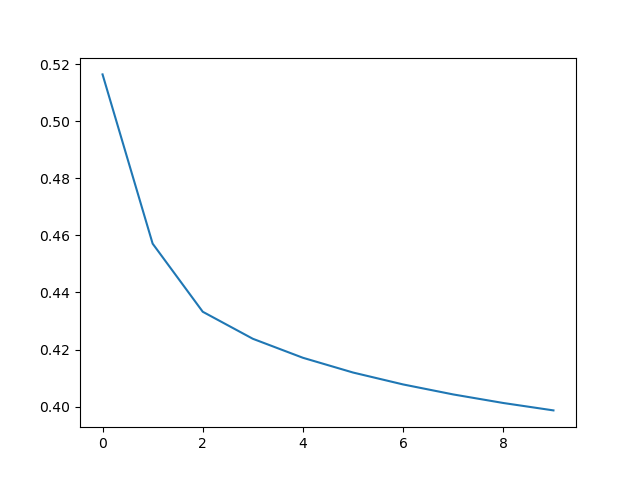
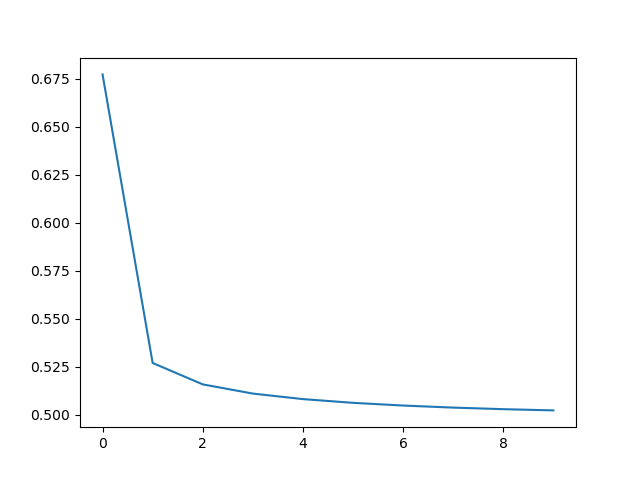
transform is now searching the old solution instead of rerunning tucker

diff --git a/ICE/ChannelReducer.py b/ICE/ChannelReducer.py
@@ -201,6 +201,7 @@ class ChannelTensorDecompositionReducer(object):
         self.trained_shape = None
         self.orig_shape = None
         self._iter_max = iter_max
+        self.orig_dataset = None
 
     def _flat_transpose_pad(self, acts, pad=False):
         """ flat the input matrix A to (c x (h x w) x n),
@@ -236,19 +237,11 @@ class ChannelTensorDecompositionReducer(object):
             acts = acts.reshape(self.orig_shape)
         return acts
 
-    # def fit(self, acts):
-    #     # TODO to update
-    #     if hasattr(self._reducer, "partial_fit"):
-    #         res = self._apply_flat(self._reducer.partial_fit, acts)
-    #     else:
-    #         res = self._apply_flat(self._reducer.fit, acts)
-    #     self._is_fit = True
-    #     return res
-
     def fit_transform(self, acts):
         """Fit a tucker model and return the error."""
         # matrix now has the shape n x h x w x c
         self.orig_shape = acts.shape
+        self.orig_dataset = acts
         # transpose and flat
         acts_flat = self._flat_transpose_pad(acts)
         # now run tucker decomposition
@@ -256,6 +249,7 @@ class ChannelTensorDecompositionReducer(object):
         tensors, error = non_negative_tucker_hals(
             acts_flat, rank=self.rank, n_iter_max=self._iter_max, return_errors=True
         )
+        print("Minimum Tucker error", error[-1])
         normalized_tensors = normalize_tensors(tensors)
         self.precomputed_tensors = normalized_tensors
         self._is_fit = True
@@ -267,42 +261,67 @@ class ChannelTensorDecompositionReducer(object):
         plt.savefig("test_plot.png")
 
     def transform(self, acts):
-        """Return the data tranformed by and already fitted Tucker model."""
-        # acts is not the pianoroll for only some pieces
-        # first flat transpose and pad
-        padded_acts = self._flat_transpose_pad(acts, pad=True)
-        # now tucker decompose with fixed modes
-        (core, factors), errors = non_negative_tucker_hals(
-            padded_acts,
-            rank=self.rank,
-            return_errors=True,
-            n_iter_max=self._iter_max,
-            fixed_modes=[0, 1],
-            init=self.precomputed_tensors.tucker_copy(),
+        indices = []
+        for piece in acts:
+            indices.append((self.orig_dataset == piece).all(axis=-1).nonzero()[0][0])
+        output = tensorly.tenalg.multi_mode_dot(
+            self.precomputed_tensors.core, self.precomputed_tensors.factors, skip=0
         )
-        # 3 and 2 mode multiplication, skip channel-mode mult
-        output = tensorly.tenalg.multi_mode_dot(core, factors, skip=0)
         # reshape and translate the output so we return n x h x w x c'
         output = self._inverse_flat_transpose(output)
         # delete zero-padded pieces
-        output = output[: acts.shape[0], :, :, :]
-        return output
+        output = output[indices, :, :, :]
+        return output, indices
 
-    def inverse_transform(self, acts):
-        # flat transpose
-        padded_acts = self._flat_transpose_pad(acts, pad=True)
+        # """Return the data tranformed by and already fitted Tucker model."""
+        # # acts is not the pianoroll for only some pieces
+        # # first flat transpose and pad
+        # padded_acts = self._flat_transpose_pad(acts, pad=True)
+        # # now tucker decompose with fixed modes (except piece mode)
+        # fixed_modes = [0, 1] if self.dimension == 3 else [0, 1, 2]
+        # (core, factors), errors = non_negative_tucker_hals(
+        #     padded_acts,
+        #     rank=self.rank,
+        #     return_errors=True,
+        #     n_iter_max=self._iter_max,
+        #     fixed_modes=fixed_modes,
+        #     init=self.precomputed_tensors.tucker_copy(),
+        # )
+        # print("Minimum fixed Mode Tucker error", errors[-1])
+        # # 3 and 2 mode multiplication, skip channel-mode mult
+        # output = tensorly.tenalg.multi_mode_dot(core, factors, skip=0)
+        # # reshape and translate the output so we return n x h x w x c'
+        # output = self._inverse_flat_transpose(output)
+        # # delete zero-padded pieces
+        # output = output[: acts.shape[0], :, :, :]
+        # return output
+
+    def inverse_transform(self, acts, indices):
         if self._is_fit:
-            # only step missing to the reconstructed matrix is the 1-mode multiplication
-            # 3 and 2 mode mult has been performed in transform()
-            mode1_matrix = self.precomputed_tensors.factors[0]
-            reconstructed = tensorly.tenalg.mode_dot(padded_acts, mode1_matrix, 0)
+            reconstructed = tensorly.tucker_to_tensor(self.precomputed_tensors)
             # transpose and reshape it in original shape n x h x w x c
             reconstructed = self._inverse_flat_transpose(
                 reconstructed, reduced_channel=False
             )
-            return reconstructed[: acts.shape[0], :, :, :]
+            return reconstructed[indices, :, :, :]
         else:
             raise Exception("The Reducer must be fit first")
+
+    # def inverse_transform(self, acts):
+    #     # flat transpose
+    #     padded_acts = self._flat_transpose_pad(acts, pad=True)
+    #     if self._is_fit:
+    #         # only step missing to the reconstructed matrix is the 1-mode multiplication
+    #         # 3 and 2 mode mult has been performed in transform()
+    #         mode1_matrix = self.precomputed_tensors.factors[0]
+    #         reconstructed = tensorly.tenalg.mode_dot(padded_acts, mode1_matrix, 0)
+    #         # transpose and reshape it in original shape n x h x w x c
+    #         reconstructed = self._inverse_flat_transpose(
+    #             reconstructed, reduced_channel=False
+    #         )
+    #         return reconstructed[: acts.shape[0], :, :, :]
+    #     else:
+    #         raise Exception("The Reducer must be fit first")
 
 
 def normalize_tensors(tucker_tensor):

diff --git a/ICE/Explainer.py b/ICE/Explainer.py
@@ -169,20 +169,13 @@ class Explainer:
         for X_feature in X_features:
             # transform the pieces for each composer, according to the factorization produced before
             # the result is in shape: n x h x w x c'
-            t_feature = self.reducer.transform(X_feature)
-            # take the mean for h and w dimensions to have a vector n x c'. No filter is applied here ( because threshold is None)
-            # is the result pred_feature, only used for computing feature distribution?
-            # pred_feature = self._feature_filter(t_feature)
-            # self.feature_distribution["classes"].append(
-            #     [
-            #         pred_feature.mean(axis=0),
-            #         pred_feature.std(axis=0),
-            #         pred_feature.min(axis=0),
-            #         pred_feature.max(axis=0),
-            #     ]
-            # )
-            # inverse NMF transform the vector n x h x w x c' to the original A matrix n x h x w x c
-            reX.append(self.reducer.inverse_transform(t_feature))
+            if self.reducer_type == "NMF":
+                t_feature = self.reducer.transform(X_feature)
+                # inverse NMF transform the vector n x h x w x c' to the original A matrix n x h x w x c
+                reX.append(self.reducer.inverse_transform(t_feature))
+            else:
+                t_feature, indices = self.reducer.transform(X_feature)
+                reX.append(self.reducer.inverse_transform(t_feature, indices))
 
         err = []
         for i in range(len(self.class_names)):
@@ -349,9 +342,14 @@ class Explainer:
                     0
                 ]  # this does nothing. Just the dataloader is returning a list with 1 element
                 # produce the W from the (W,H) NMF factorization already trained
-                featureMaps = self.reducer.transform(
-                    model.get_feature(X, self.layer_name)
-                )
+                if self.reducer_type == "NMF":
+                    featureMaps = self.reducer.transform(
+                        model.get_feature(X, self.layer_name)
+                    )
+                else:
+                    featureMaps, _ = self.reducer.transform(
+                        model.get_feature(X, self.layer_name)
+                    )
                 # average W to pass from from (n x h x w x c') to (n x c')
                 X_feature = self._feature_filter(featureMaps)
 
@@ -534,12 +532,14 @@ class Explainer:
                 midifile_filt_path = Path(feature_path, f"feature{idx}-{i}_filt.mid")
                 try:
                     self.utils.pianoroll2midi(
-                        np.transpose(x_filt[i], (0, 2, 1)), midifile_filt_path
+                        np.transpose(x_filt[i], (0, 2, 1)),
+                        midifile_filt_path,
+                        channels=1,
                     )
                     if unfiltered_midi:
                         midifile_path = Path(feature_path, f"feature{idx}-{i}.mid")
                         self.utils.pianoroll2midi(
-                            np.transpose(x[i], (0, 2, 1)), midifile_path
+                            np.transpose(x[i], (0, 2, 1)), midifile_path, channels=1
                         )
                 except ValueError:
                     print(f"No midi file generated for feature{idx}-{i}")

diff --git a/music_experiments/experiments_script.py b/music_experiments/experiments_script.py
@@ -52,10 +52,10 @@ def prepare_data(gpu_number, target_classes, batch_size):
     np.random.seed(seed)
     torch.backends.cudnn.deterministic = True
 
-    model_loc = "/share/cp/projects/concept_composers/experiments/kim2020/training/2202180920/model"
-    model_name = "resnet50_valloss_1.3208494186401367_acc_0.9237896919964558.pt"
+    model_loc = "/share/cp/projects/concept_composers/experiments/kim2020/training/2202180921/model"
+    model_name = "resnet50_valloss_1.277892827987671_acc_0.9258942617369257.pt"
 
-    model = resnet50(in_channels=2, num_classes=13)
+    model = resnet50(in_channels=1, num_classes=13)
     checkpoint = torch.load(os.path.join(model_loc, model_name), map_location=device)
     state_dict = {
         k.replace("module.", ""): checkpoint["model.state_dict"][k]
@@ -75,6 +75,7 @@ def prepare_data(gpu_number, target_classes, batch_size):
         age=False,
         transform=None,
         transpose_rng=None,
+        pr_channels=1,
     )
     # train_loader = DataLoader(train_dataset, batch_size=batch_size, shuffle=True)
 
@@ -146,14 +147,14 @@ def train_explainer(
     loaders,
     iter_max,
     dimension,
-    reducer
+    reducer,
 ):
 
     wm = ICE.ModelWrapper.PytorchModelWrapper(
         model,
         batch_size=batch_size,
         predict_target=target_classes,
-        input_size=[2, 400, 88],
+        input_size=[1, 400, 88],
         input_channel_first=True,
         model_channel_first=True,
     )
@@ -179,7 +180,7 @@ def train_explainer(
         layer_name=layer_name,
         class_names=classes_names,
         utils=ICE.utils.img_utils(
-            img_size=(400, 88), nchannels=2, img_format="channels_first"
+            img_size=(400, 88), nchannels=1, img_format="channels_first"
         ),
         n_components=n_components,
         reducer_type=reducer,
@@ -189,7 +190,7 @@ def train_explainer(
     )
     # train reducer based on target classes
     exp.train_model(wm, loaders)
-    return exp
+    return exp, wm
 
 
 def build_explanation(exp, wm, loaders):
@@ -218,7 +219,7 @@ def build_explanation(exp, wm, loaders):
 @click.option(
     "--rank",
     help="An integer, or list of integers as string",
-    default="[20, 5,5, 100]",
+    default="[10, 8,3, 100]",
     type=str,
 )
 @click.option(
@@ -234,7 +235,7 @@ def start_experiment(
     loaders, classes_names, model = prepare_data(
         str(gpu_number), target_classes, batch_size
     )
-    train_explainer(
+    exp, wm = train_explainer(
         model,
         batch_size,
         target_classes,
@@ -244,8 +245,9 @@ def start_experiment(
         loaders,
         max_iter,
         dimension,
-        reducer
+        reducer,
     )
+    build_explanation(exp, wm, loaders)
 
 
 if __name__ == "__main__":

diff --git a/ICE/utils.py b/ICE/utils.py
@@ -224,19 +224,47 @@ class img_utils:
 
         return x, h
 
-    def pianoroll2midi(
-        self, pianoroll3d, out_path, samples_per_second=20, piano_range=True
-    ):
-        """Generate a midi file from a pianoroll.
-        The expected pianoroll shape is (2,128,x)"""
+    # def pianoroll2midi(
+    #     self, pianoroll3d, out_path, samples_per_second=20, piano_range=True
+    # ):
+    #     """Generate a midi file from a pianoroll.
+    #     The expected pianoroll shape is (2,128,x)"""
+    #     if pianoroll3d.max() == 0:
+    #         raise ValueError(
+    #             "There should be at least one note played in the pianoroll"
+    #         )
+
+    #     note_array = partitura.utils.pianoroll_to_notearray(
+    #         pianoroll3d[1, :, :], time_div=samples_per_second, time_unit="sec"
+    #     )
+    #     performed_part = partitura.performance.PerformedPart.from_note_array(
+    #         note_array, id=None, part_name=None
+    #     )
+    #     partitura.io.exportmidi.save_performance_midi(performed_part, out_path)
+
+    def pianoroll2midi(self, pianoroll3d, out_path, samples_per_second=20, channels=2):
+        """Generate a midi file from a pianoroll. 
+        The expected pianoroll shape is (2,128,x) or (2,88,x), or """
         if pianoroll3d.max() == 0:
             raise ValueError(
                 "There should be at least one note played in the pianoroll"
             )
+        if pianoroll3d.shape[0] != channels or pianoroll3d.shape[1] not in (128, 88):
+            raise ValueError("Shape is expected to be ['channels', 128, x]")
 
-        note_array = partitura.utils.pianoroll_to_notearray(
-            pianoroll3d[1, :, :], time_div=samples_per_second, time_unit="sec"
-        )
+        # enlarge to 128 midi pitches if there are only 88.
+        # The inverse operation of slicing it with [:,21:109,: ]
+        if pianoroll3d.shape[1] == 88:
+            pianoroll3d = np.pad(pianoroll3d, ((0, 0), (21, 19), (0, 0)), "constant")
+
+        if channels == 2:  # take only the channel with note duration
+            note_array = partitura.utils.pianoroll_to_notearray(
+                pianoroll3d[1, :, :], time_div=samples_per_second, time_unit="sec"
+            )
+        elif channels == 1:  #  take the only channel
+            note_array = partitura.utils.pianoroll_to_notearray(
+                pianoroll3d[0, :, :], time_div=samples_per_second, time_unit="sec"
+            )
         performed_part = partitura.performance.PerformedPart.from_note_array(
             note_array, id=None, part_name=None
         )

diff --git a/ICE/ModelWrapper.py b/ICE/ModelWrapper.py
@@ -177,6 +177,9 @@ class PytorchModelWrapper(ModelWrapper):
             nx = self._switch_channel(
                 nx, layer_in=layer_in, layer_out=layer_out, to_model=True
             )
+            # to remove the onset
+            # WARNING: this is highly specific for the midi dataset we are using!
+            # nx = nx[:, np.newaxis, 1, :, :]
             out.append(self._fun(nx, layer_in, layer_out))
 
         res = torch.cat(out, 0)
